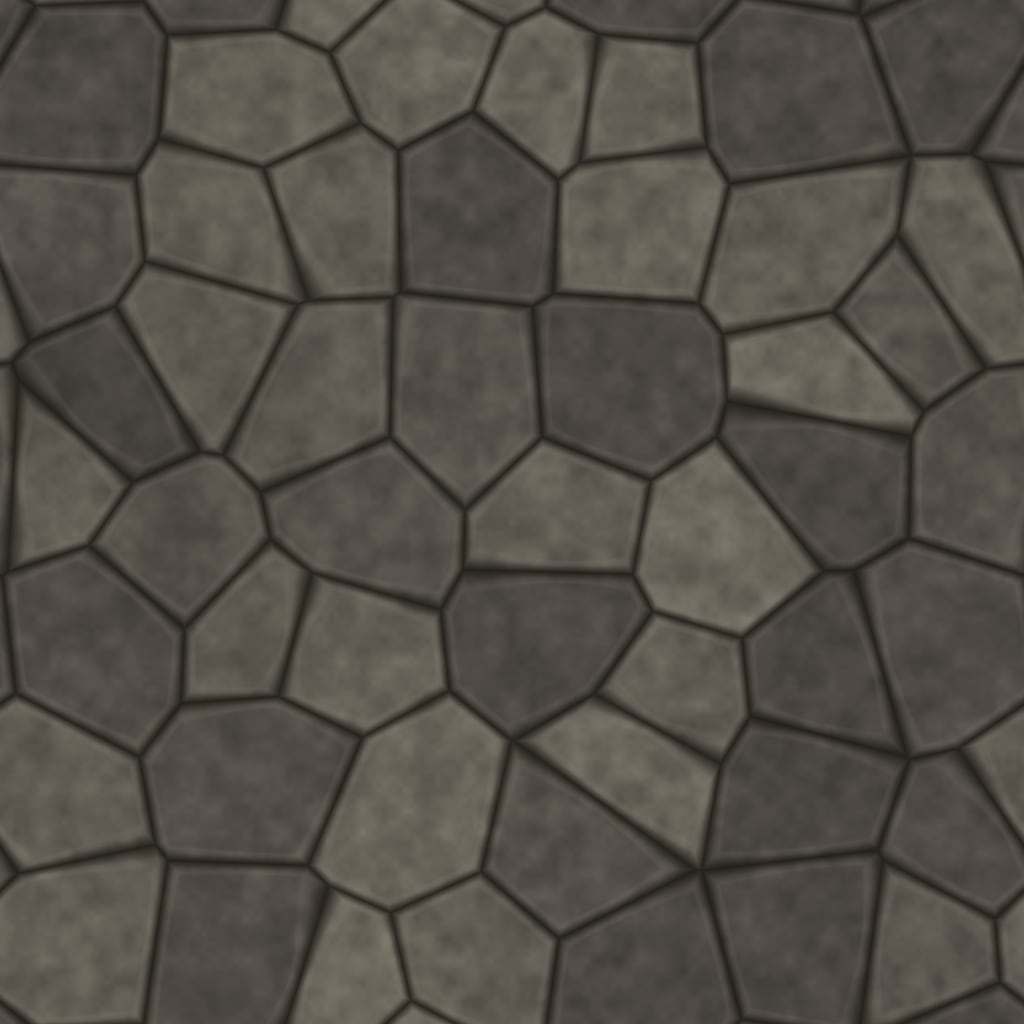
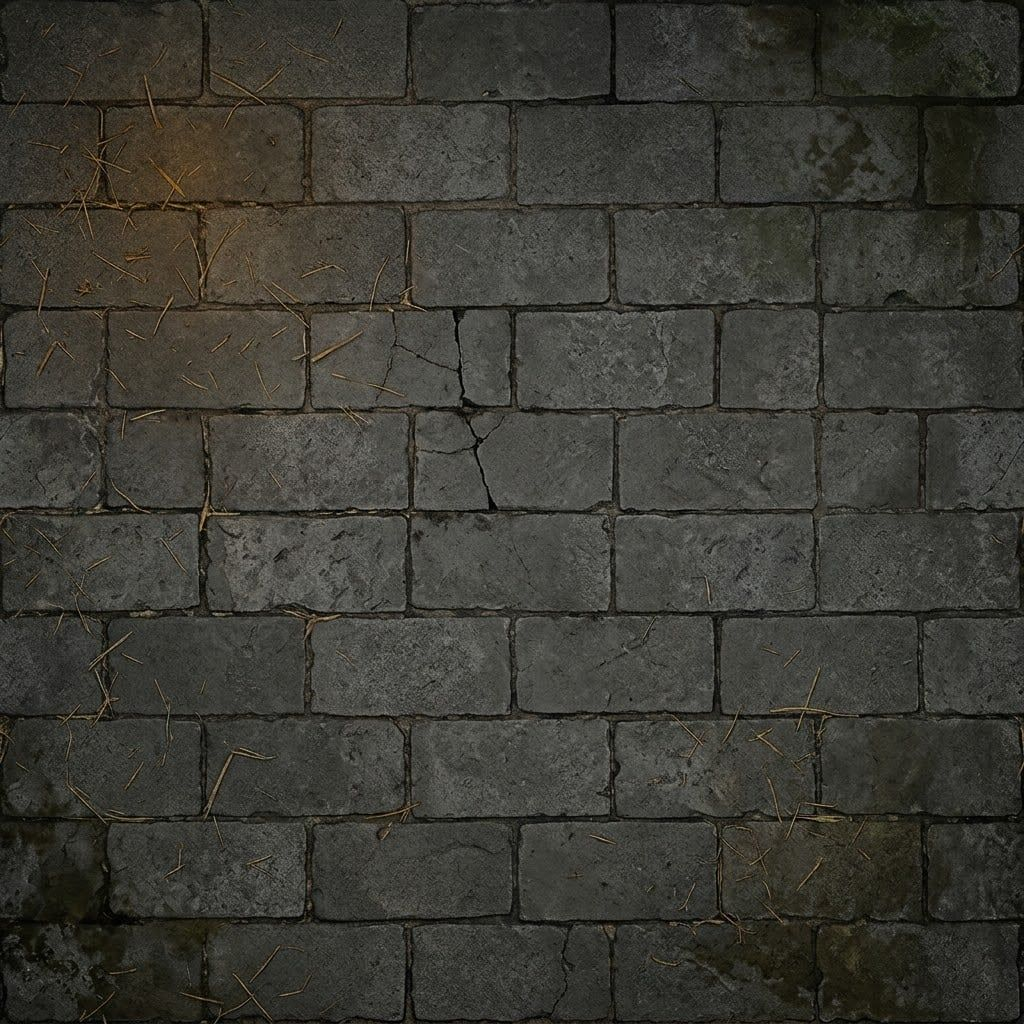
Darker dungeon floor; prop tokens for dungeon, forest and tavern
All ten built-in grounds now ship a prop sheet, sliced into
public/maps/tokens. Masters live in art/.

diff --git a/src/battlemap.js b/src/battlemap.js
@@ -53,7 +53,7 @@ const T = (id, name, subtitle, grid, accent, fallback, desc, wash = 0.25, gridAl
 
 export const MAP_THEMES = [
   T('dungeon', 'Dungeon', 'Worn flagstones, mortar seams, old straw',
-    '#e6d9b8', '#c0552a', '#534f47',
+    '#e6d9b8', '#c0552a', '#3b3b34',
     'Cut stone laid by people long dead, and walked on by whatever came after.'),
   T('catacombs', 'Crypt', 'Pale marble slabs, bone dust, cracked inlay',
     '#2e342e', '#4a6a48', '#aea799',

diff --git a/src/spritesheet.js b/src/spritesheet.js
@@ -116,7 +116,8 @@ export const slotOfRole = (role) => {
    here and run tools/slice-sprites.mjs. */
 export const SHEET_FOR_THEME = {
   catacombs: 'crypt', cavern: 'cavern', cobbles: 'cobblestones', desert: 'desert',
-  swamp: 'swamp', tundra: 'tundra', volcanic: 'embers'
+  dungeon: 'dungeon', forest: 'forest', swamp: 'swamp', tavern: 'tavern',
+  tundra: 'tundra', volcanic: 'embers'
 };
 
 /* ---- which picture an element gets ----

diff --git a/TEXTURES.md b/TEXTURES.md
@@ -180,16 +180,16 @@ Outdoor grounds work with the same tools: a "wall" there is terrain and a
 ## Props
 
 Doors, barrels, pillars, fires and thickets are drawn as **flat shapes** unless
-a ground has a prop sheet. Seven of the built-in ten (crypt, cavern, cobbles, desert, swamp, tundra, volcanic) ship with one, cut into `public/maps/tokens/<theme>/`; the masters stay in `art/sprites/`, which is not deployed; a ground you
+a ground has a prop sheet. All ten built-in grounds ship with one, cut into `public/maps/tokens/<theme>/`; the masters stay in `art/sprites/`, which is not deployed; a ground you
 generate can have its own (**Generate matching props**, in the Ground panel, once a floor is previewed), asked for
 as ONE 4x4 sheet so the sixteen share a palette and a light. To ship a sheet
 with a built-in theme, put it in `art/sprites/`, name it in `SHEET_FOR_THEME`
 (`src/spritesheet.js`) and run `node tools/slice-sprites.mjs`.
 
-**Floors from Gemini.** Nine of the ten floors in `public/maps/*.jpg` are Gemini
-renders (masters in `art/textures/`, recompressed to 1024px JPEG q84); only
-`dungeon` is still procedural. `npm run textures` rewrites all ten procedural
-ones, so pass `--only dungeon` unless you mean to replace the Gemini floors.
+**Floors from Gemini.** All ten floors in `public/maps/*.jpg` are Gemini
+renders (masters in `art/textures/`, recompressed to 1024px JPEG q84).
+`npm run textures` regenerates procedural stand-ins for all ten and would
+overwrite them, so do not run it unless you mean to replace the Gemini floors.
 
 ## Overlay art
 
